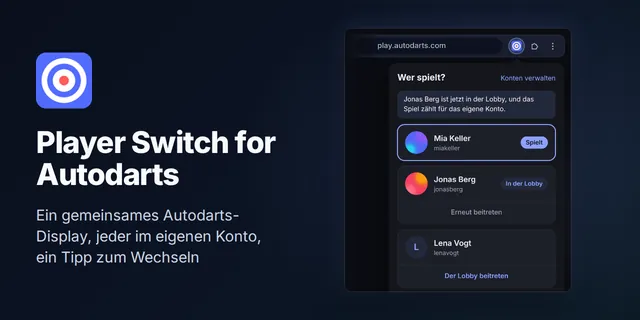
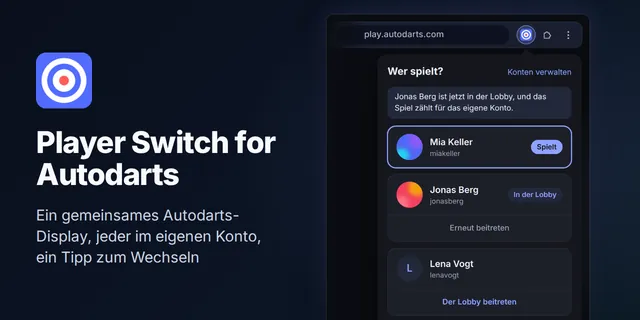
fix: the card of Player Switch frames its taller popup well (#190)
## Summary

**The German card of Player Switch shows its taller popup about as large
as the English card does.** The hub draws the German picture from
`docs/images/popup.de.dark.png` of the extension. That picture grew from
880×936 to 880×1024 pixels when the popup got its *Erneut beitreten*
button (Dennis-Otto/player-switch-for-autodarts#189).
`.github/card-picture.html` puts every screenshot inside a frame, as
large as its proportions allow within the picture's margins. So the
taller popup came out narrower: about 9 % smaller than before, and
clearly smaller than on the English card, where the popup hangs from the
toolbar and runs off the bottom edge.

I checked the card in both languages, light and dark, at 375 and 1280
px. The framed popup was whole and sharp, but small next to its English
twin. The German card had the same complaint before (#174), so I fixed
the framing instead of leaving it as it was.

The popup in that screenshot is already cut at its foot: its panel runs
on below the last account. So the German picture can show it as the
social preview does without losing anything the screenshot shows. A
drawing in `projects.toml` can now say so with `drawing.hangs = true`.
The screenshot then hangs from near the top of the picture down to its
bottom edge, which it runs off. Only its top corners are rounded, and
the light behind it stays. Player Switch is the only project that sets
it. Every other German card keeps its frame, and the script drew each of
[…]

diff --git a/.github/card-picture.html b/.github/card-picture.html
@@ -6,7 +6,8 @@
 <!-- The picture of a card of the home page in a language after the first, in the
      look of the social previews of the projects: their navy, the logo, the name and
      the tagline of the project in that language beside a screenshot of its
-     repository in that language, lit in the color of its social preview.
+     repository in that language, lit in the color of its social preview, inside a
+     frame or, for a drawing that hangs, hanging from the top.
      scripts/project-pictures.sh fetches the screenshot and the logo that drawing of
      projects.toml names, `python3 -I .github/mkdocs_project.py --drawings` writes a
      copy of this page beside them with every placeholder filled in, and the Chromium of
@@ -35,10 +36,16 @@ body {
 .icon svg { width: 72px; height: 72px; fill: #fff; }
 h1 { font-size: 60px; font-weight: 800; line-height: 1.06; letter-spacing: -0.025em; }
 p { margin-top: 28px; font-size: 30px; line-height: 1.4; color: #cbd5e1; }
-/* The screenshot as large as its proportions let it be, never cut. */
-.screenshot { position: absolute; left: 608px; right: 56px; top: 56px; bottom: 56px; display: flex; align-items: center; justify-content: center; }
+/* The screenshot as large as its proportions let it be, never cut: framed, inside
+   the margins of the picture, or hanging, for one that is cut at its foot already,
+   such as a popup below the toolbar of a browser, from near the top of the picture
+   down to its bottom edge, which it runs off as in the social previews. */
+.screenshot { position: absolute; left: 608px; right: 56px; display: flex; justify-content: center; }
 .screenshot img { display: block; max-width: 100%; max-height: 100%; border-radius: 14px; border: 1px solid rgba(255, 255, 255, 0.12);
   box-shadow: 0 24px 60px rgba(0, 0, 0, 0.5), 0 0 48px color-mix(in srgb, var(--accent) 16%, transparent); }
+.framed { top: 56px; bottom: 56px; align-items: center; }
+.hanging { top: 28px; bottom: 0; align-items: flex-end; }
+.hanging img { border-bottom: 0; border-bottom-left-radius: 0; border-bottom-right-radius: 0; }
 </style>
 </head>
 <body>
@@ -47,6 +54,6 @@ p { margin-top: 28px; font-size: 30px; line-height: 1.4; color: #cbd5e1; }
   <h1>${name}</h1>
   <p>${tagline}</p>
 </div>
-<div class="screenshot"><img src="${screenshot}" alt=""></div>
+<div class="screenshot ${place}"><img src="${screenshot}" alt=""></div>
 </body>
 </html>

diff --git a/tests/test_hub_reader.py b/tests/test_hub_reader.py
@@ -598,7 +598,7 @@ def test_a_drawing_is_for_a_picture_of_its_own_of_a_project_with_a_repo() -> Non
         ("docs/images/de/shot.png", "drawing must be a table."),
         (
             drawing_data(size=2),
-            "drawing.size is unknown; known are screenshot, logo, accent.",
+            "drawing.size is unknown; known are screenshot, logo, accent, hangs.",
         ),
         ({"accent": "#14b8a6"}, "drawing.screenshot is missing."),
         (
@@ -627,6 +627,10 @@ def test_a_drawing_is_for_a_picture_of_its_own_of_a_project_with_a_repo() -> Non
             {"screenshot": "docs/images/de/shot.png"},
             "drawing.accent is missing.",
         ),
+        (
+            drawing_data(hangs="yes"),
+            "drawing.hangs must be true or false, not 'yes'.",
+        ),
     ],
 )
 def test_a_drawing_names_each_of_its_problems(drawing: object, problem: str) -> None:
@@ -641,6 +645,21 @@ def test_a_drawing_may_have_a_screenshot_in_each_language_that_it_draws() -> Non
     assert picture.drawing == hub.catalog.Drawing(
         {"de": "docs/de/shot.webp"}, "docs/logo.svg", "#14b8a6"
     )
+
+
+def test_a_drawing_frames_its_screenshot_unless_it_hangs() -> None:
+    # A screenshot cut at its foot already, such as a popup below the toolbar of a
+    # browser, hangs from the top of the picture and runs off its bottom edge.
+    pictures = [
+        hub.reader.read(catalog_data(drawn(drawing=drawing))).projects[0].picture
+        for drawing in (drawing_data(), drawing_data(hangs=True))
+    ]
+
+    assert [
+        picture.drawing.hangs
+        for picture in pictures
+        if picture is not None and picture.drawing is not None
+    ] == [False, True]
 
 
 def test_a_drawing_has_a_screenshot_for_each_language_that_it_draws_alone() -> None:

diff --git a/tests/test_hub_pictures.py b/tests/test_hub_pictures.py
@@ -26,7 +26,7 @@ from hub_helpers import (
 )
 
 # A page of the drawn pictures with every placeholder of DRAWING.
-TEMPLATE = "${lang}|${name}|${tagline}|${accent}|${logo}|${screenshot}"
+TEMPLATE = "${lang}|${name}|${tagline}|${accent}|${logo}|${screenshot}|${place}"
 
 
 def test_the_hub_writes_the_page_of_every_picture_that_it_draws(
@@ -51,9 +51,21 @@ def test_the_hub_writes_the_page_of_every_picture_that_it_draws(
     )
     assert (folder / "tool.de.html").read_text(encoding="utf-8") == (
         "de|Das Werkzeug|Ein &lt;Werkzeug&gt; &amp; mehr|#14b8a6|"
-        '<img class="logo" src="tool.logo.svg" alt="">|tool.de.screenshot.png'
+        '<img class="logo" src="tool.logo.svg" alt="">|tool.de.screenshot.png|framed'
     )
     assert sorted(path.name for path in folder.iterdir()) == ["tool.de.html"]
+
+
+def test_a_drawn_picture_hangs_a_screenshot_that_is_cut_at_its_foot(
+    tmp_path: Path,
+) -> None:
+    # Such as a popup below the toolbar of a browser: from the top of the picture to
+    # its bottom edge, larger than inside the margins of a frame.
+    catalog = hub.reader.read(catalog_data(drawn(drawing=drawing_data(hangs=True))))
+
+    hub.pictures.drawings(catalog, tmp_path, "${place}", None)
+
+    assert (tmp_path / "tool.de.html").read_text(encoding="utf-8") == "hanging"
 
 
 def test_a_drawn_picture_without_a_logo_shows_the_icon_of_its_card(

diff --git a/.github/hub/catalog.py b/.github/hub/catalog.py
@@ -202,7 +202,7 @@ PROJECT_KEYS = (
 # The keys that only a project with a card, and so with a group, has.
 CARD_KEYS = ("image", "alt", "drawing", "second")
 # The keys of drawing, which the comments of projects.toml describe.
-DRAWING_KEYS = ("screenshot", "logo", "accent")
+DRAWING_KEYS = ("screenshot", "logo", "accent", "hangs")
 # The keys of [facts], the texts of the live facts in every language, which the
 # comments of projects.toml describe. Those of VALUED hold {} where the value goes;
 # the page gives those of SCRIPT to the script, and the build takes the others, and
@@ -251,12 +251,15 @@ class Link:
 class Drawing:
     """How the hub draws the picture of a card in a language after the first: the
     screenshot of the repository of its project for every language that it draws,
-    its logo there, or None for the icon of its card, and the color of the light
-    behind the screenshot."""
+    its logo there, or None for the icon of its card, the color of the light behind
+    the screenshot, and whether the screenshot hangs from the top of the picture and
+    runs off its bottom edge, as one that is cut at its foot already, such as a
+    popup below the toolbar of a browser, or stands inside a frame, uncut."""
 
     screenshot: dict[str, str]
     logo: str | None
     accent: str
+    hangs: bool = False
 
 
 @dataclass(frozen=True)

diff --git a/.github/hub/pictures.py b/.github/hub/pictures.py
@@ -74,7 +74,9 @@ def drawings(catalog: Catalog, folder: Path, template: str, icons: Path | None) 
 
     The page names the files by their names alone, since they are beside it, and
     holds the name and the tagline of the project in the language of the picture,
-    the tagline without the name when it starts with it, as in a social preview."""
+    the tagline without the name when it starts with it, as in a social preview, and
+    the place of the screenshot: hanging from the top for a drawing that hangs, and
+    framed otherwise."""
     lines = []
     folder.mkdir(parents=True, exist_ok=True)
     for project in catalog.projects:
@@ -105,6 +107,7 @@ def drawings(catalog: Catalog, folder: Path, template: str, icons: Path | None) 
                     accent=drawing.accent,
                     logo=mark,
                     screenshot=escape(shot),
+                    place="hanging" if drawing.hangs else "framed",
                 ),
                 encoding="utf-8",
                 newline="\n",

diff --git a/tests/test_hub_repository.py b/tests/test_hub_repository.py
@@ -95,6 +95,10 @@ def test_every_card_has_a_picture_from_the_social_preview_of_its_repository() ->
     ]
 
 
+# The projects whose drawn picture hangs its screenshot from the top, drawing.hangs.
+HANGING = ("player-switch-for-autodarts",)
+
+
 def test_the_german_home_page_shows_german_pictures_that_the_hub_draws(
     tmp_path: Path,
 ) -> None:
@@ -138,6 +142,11 @@ def test_the_german_home_page_shows_german_pictures_that_the_hub_draws(
         assert '<html lang="de">' in page
         assert f"<h1>{escape(project.name['de'])}</h1>" in page
         assert "$" not in page
+        # The popup of Player Switch is cut at its foot below the toolbar of the
+        # browser, so it hangs down to the bottom edge; every other screenshot is a
+        # whole window or diagram, which a frame shows uncut.
+        place = "hanging" if project.slug in HANGING else "framed"
+        assert f'<div class="screenshot {place}">' in page, project.slug
 
 
 def webp_size(data: bytes) -> tuple[int, int]:

diff --git a/.github/hub/reader.py b/.github/hub/reader.py
@@ -240,7 +240,13 @@ class Reader:
         accent = self.text(
             value.get("accent"), owner, join("drawing", "accent"), ACCENT
         )
-        return Drawing(screenshot, logo, accent)
+        hangs = value.get("hangs", False)
+        if not isinstance(hangs, bool):
+            self.problem(
+                owner, join("drawing", "hangs"), f"must be true or false, not {hangs!r}"
+            )
+            hangs = False
+        return Drawing(screenshot, logo, accent, hangs)
 
     def former(self, value: object, owner: str, docs: Link | None) -> tuple[str, ...]:
         """value as the folders of the address where the website of a project lived

diff --git a/README.md b/README.md
@@ -154,7 +154,7 @@ python3 -I .github/mkdocs_project.py --watch
 A new project, such as one that the catalog bot reports, needs its entry in projects.toml and its pictures; the rest follows from them.
 
 1. Add a `[[project]]` to [projects.toml](projects.toml), where its card belongs: its group, its texts in English and German, its picture and its links, what it works with in `requires`, best from the file of its repository that holds the versions, and for a project whose releases carry a package, its `asset`, which the commands of the Trust page check. The comments at the top of the file describe every key.
-2. Make the pictures of its card, and write its `alt` texts as those of the other cards: with the name of the project and what every picture keeps, as [the pictures renew themselves](#the-pictures-renew-themselves) from then on. The English picture comes from the social preview of its repository; for the German one, give it `image.de` and a `drawing` with a screenshot of its repository, in German where it has one, its logo and the color of its social preview, and the script draws it:
+2. Make the pictures of its card, and write its `alt` texts as those of the other cards: with the name of the project and what every picture keeps, as [the pictures renew themselves](#the-pictures-renew-themselves) from then on. The English picture comes from the social preview of its repository; for the German one, give it `image.de` and a `drawing` with a screenshot of its repository, in German where it has one, its logo and the color of its social preview, and `drawing.hangs = true` for a screenshot that is cut at its foot already, such as a popup below the toolbar of a browser, and the script draws it:
 
    ```sh
    bash scripts/project-pictures.sh
@@ -207,7 +207,7 @@ The pictures of the website and of this README come from scripts, so that a new 
 
 | Command | What it makes |
 | --- | --- |
-| `bash scripts/project-pictures.sh` | The pictures of every card with a repository, in both languages: WebPs of 640×320 pixels, about 15 KB each, in `docs/images/projects/`, each with a `.license` file beside it that names the license of the repository for REUSE. The English one, such as `paperless-sync.webp`, comes from the social preview of the repository on `main`. The previews speak English alone, so the script draws the German one, such as `de/paperless-sync.webp`, in their look: the Chromium of Playwright in Docker renders [.github/card-picture.html](.github/card-picture.html) with the logo, the name and the German tagline of the project beside the screenshot of its repository that `drawing` in projects.toml names, in German where the project has one. `scripts/screenshots.sh` runs it first, so the screenshot bot renews the pictures on its own; run it yourself for the pictures of a new card. |
+| `bash scripts/project-pictures.sh` | The pictures of every card with a repository, in both languages: WebPs of 640×320 pixels, about 15 KB each, in `docs/images/projects/`, each with a `.license` file beside it that names the license of the repository for REUSE. The English one, such as `paperless-sync.webp`, comes from the social preview of the repository on `main`. The previews speak English alone, so the script draws the German one, such as `de/paperless-sync.webp`, in their look: the Chromium of Playwright in Docker renders [.github/card-picture.html](.github/card-picture.html) with the logo, the name and the German tagline of the project beside the screenshot of its repository that `drawing` in projects.toml names, in German where the project has one, inside a frame or, with `drawing.hangs`, hanging from the top. `scripts/screenshots.sh` runs it first, so the screenshot bot renews the pictures on its own; run it yourself for the pictures of a new card. |
 | `bash scripts/icons.sh` | `docs/favicon.ico` with 16, 32 and 48 pixels and `docs/apple-touch-icon.png` with 180, from the monogram in [docs/assets/logo.svg](docs/assets/logo.svg), which is the logo of the header and the icon of the browser tab too. Browsers ask the root of the address for both, for every website at `dennis-otto.github.io`. It renders [.github/icons.html](.github/icons.html) with the Chromium of Playwright in Docker. |
 | `bash scripts/screenshots.sh` | The pictures of the cards, with `scripts/project-pictures.sh` first, and those of the website in this README and on the About pages, each in the light and in the dark colors, as a reader first sees it: the home page at 1280×800 pixels, `docs/images/website-light.png` and `website-dark.png` at the top of this README, and the German one, `website-light.de.webp` and `website-dark.de.webp`, at the top of [README.de.md](README.de.md); the [home page on a phone](#the-home-page), 375×812, and the [Trust page](#the-trust-page) as lossless WebPs, `website-phone-*.webp` and `website-trust-*.webp`; and [the search of every project](#one-search-for-every-website) as an animated WebP that plays once and stays on its last frame, `search-*.webp`, with that frame as the still for a reader who prefers reduced motion, `search-still-*.webp`, and the same of the German home page as `search-*.de.webp` and `search-still-*.de.webp`, which the German About page shows at the addresses of the English ones. It builds the website strictly, serves it on the loopback of a container of Playwright's image without a network, and [scripts/screenshots.py](scripts/screenshots.py) drives the headless Chromium of the image through the DevTools protocol, with the standard library of Python alone: each picture in a browser context of its own, in its size, its color scheme and with reduced motion, taken once the page has settled, and the search typed a letter at a time, a frame for each. Pillow from `.venv-docs` turns the screenshots into the WebPs. The screenshot bot runs it on its own; run it yourself to see what a change of the home page, of a project or of the theme changes, and describe what the pictures show in their `alt`, the one at the top of this README when the first group changes. The website leaves out the pictures that only the READMEs show, `website-*`. |
 | `bash scripts/social-preview.sh` | `.github/social-preview.png`, the picture of links to this repository, from [.github/social-preview.html](.github/social-preview.html): the monogram and a collage of the pictures of the projects. Upload it under *Settings → General → Social preview*. |

diff --git a/changelog.d/n29-dgh-psw-card-popup.md b/changelog.d/n29-dgh-psw-card-popup.md
@@ -1,0 +1,3 @@
+### Bug fixes
+
+- **The German card of Player Switch shows its popup as large as the English one:** the popup of the extension grew taller with its button to join the lobby again, so inside the frame of the German picture it came out smaller than before and a good deal smaller than on the English card. It now hangs from the toolbar of the browser at the top of the picture and runs off its bottom edge, as in the social preview of the extension. A project in `projects.toml` asks for this with `drawing.hangs = true`; every other German card keeps its frame.
